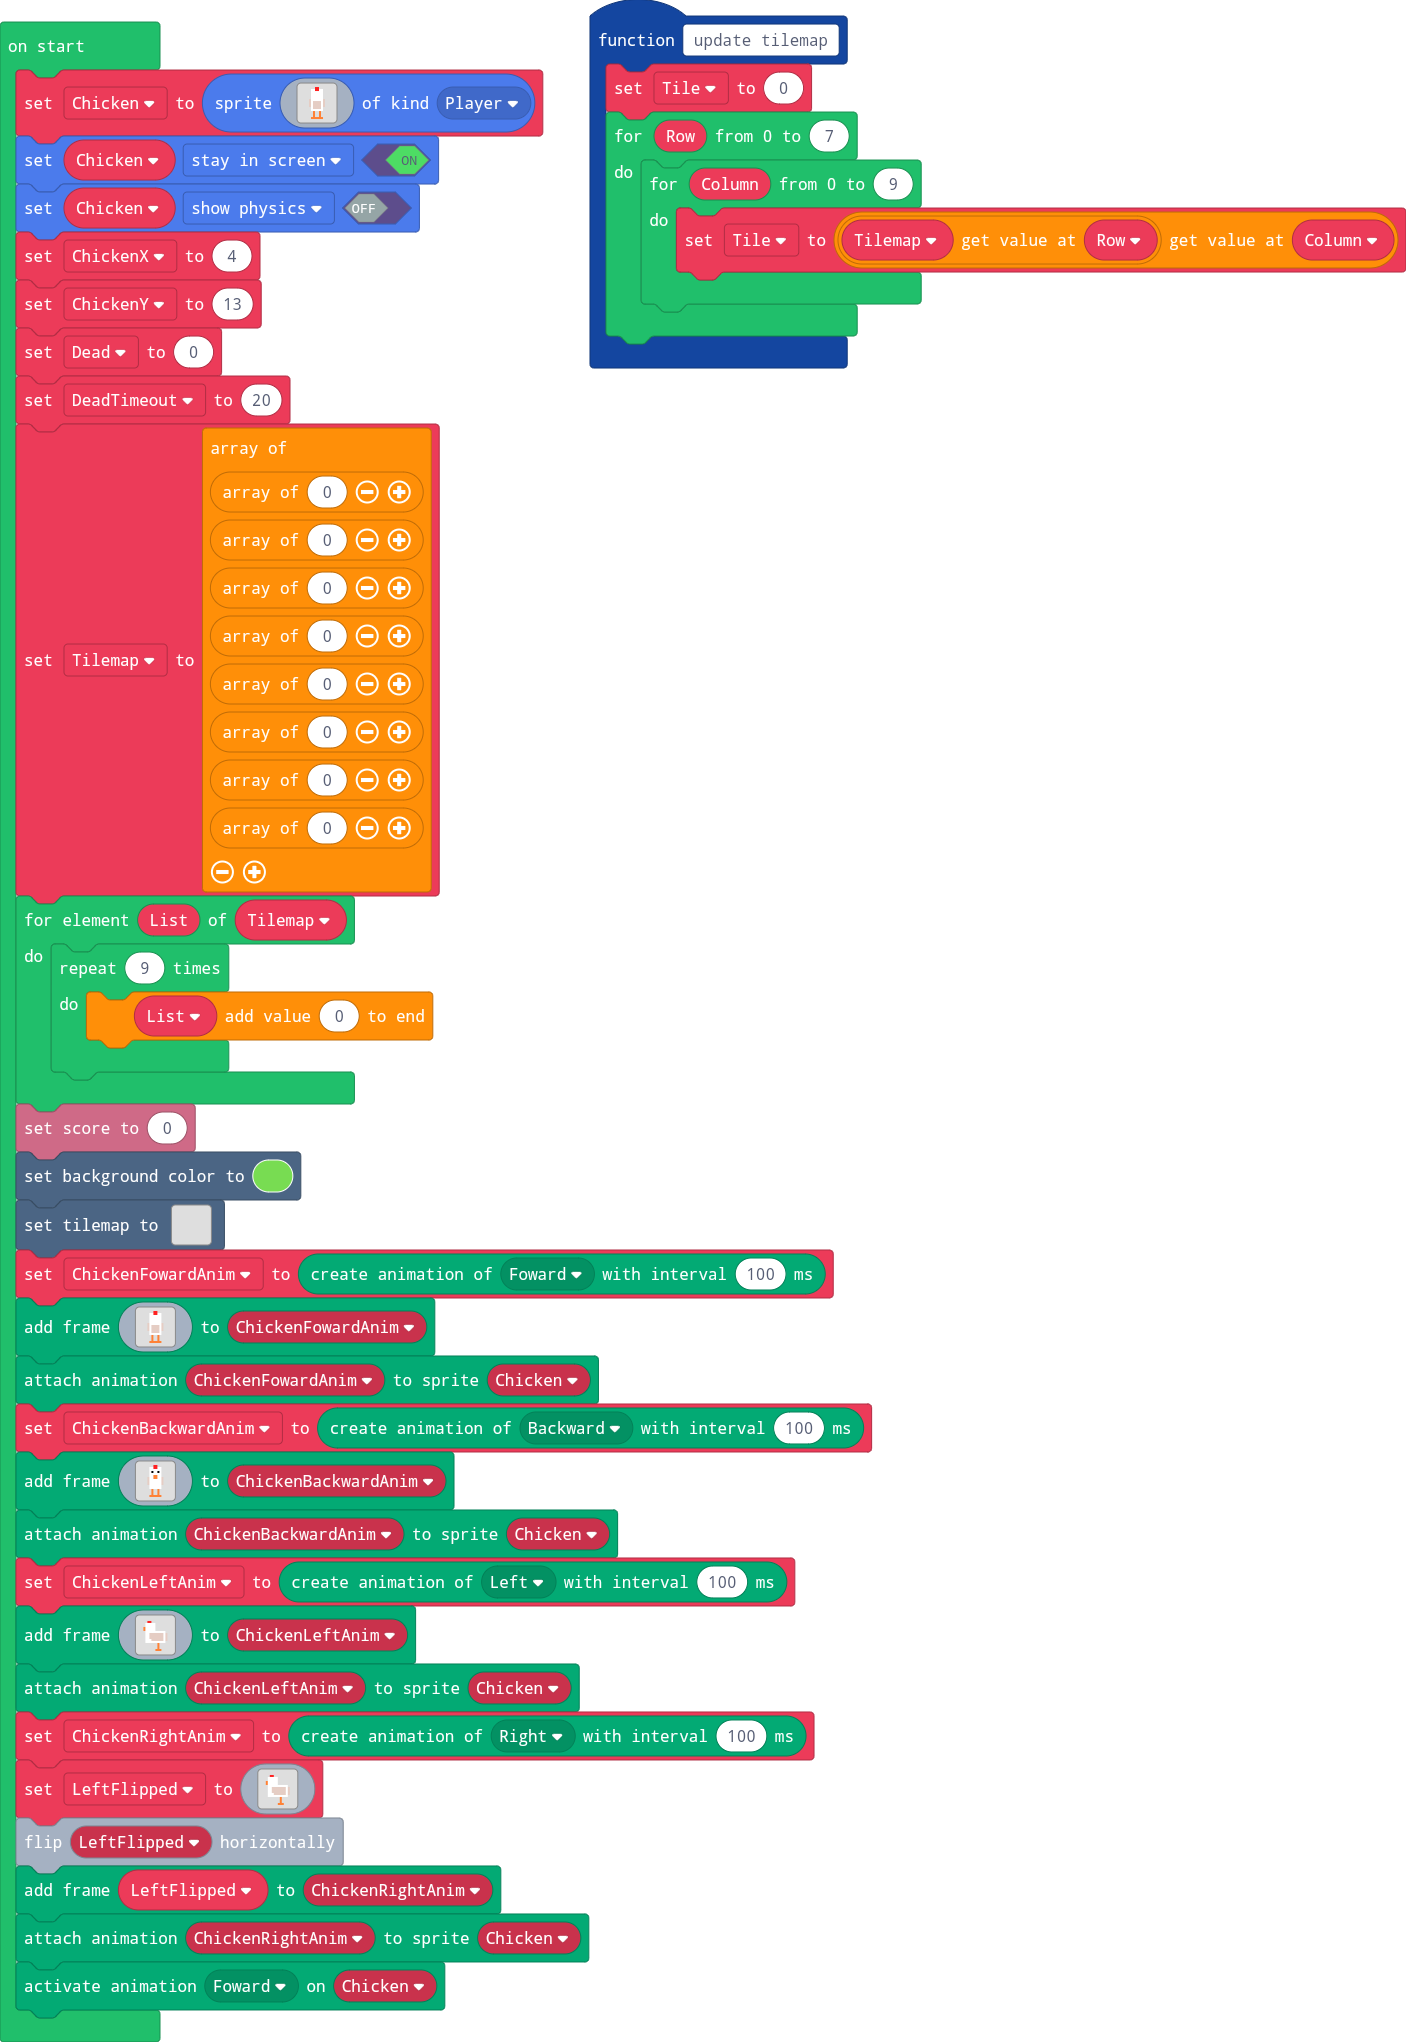
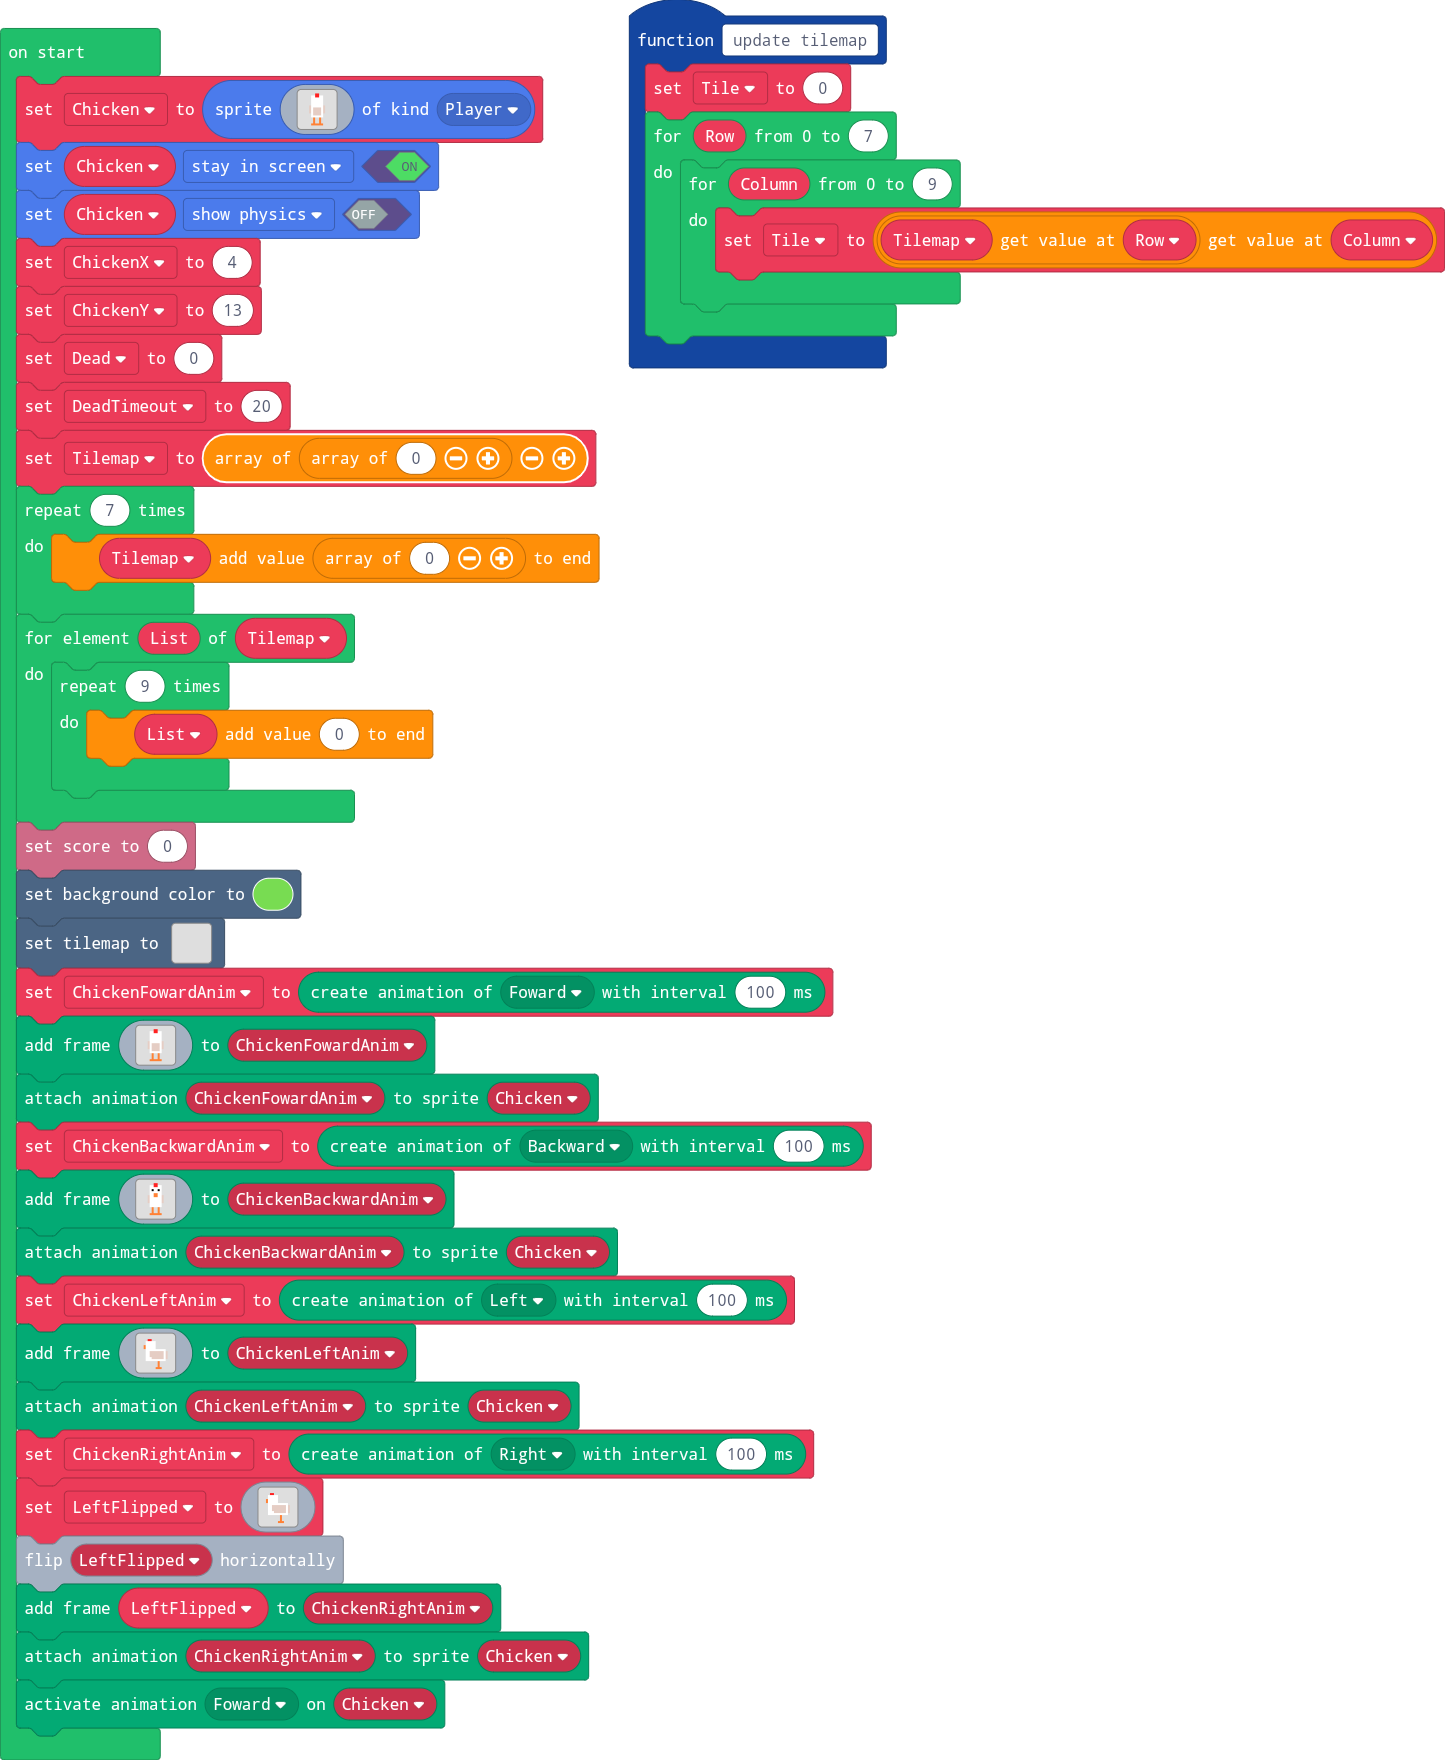
Made another loop to add arrays to 2D array of tilemap

diff --git a/main.ts b/main.ts
@@ -41,7 +41,10 @@ let ChickenX = 4
 let ChickenY = 13
 let Dead = 0
 let DeadTimeout = 20
-Tilemap = [[0], [0], [0], [0], [0], [0], [0], [0]]
+Tilemap = [[0]]
+for (let index = 0; index < 7; index++) {
+    Tilemap.push([0])
+}
 for (let List of Tilemap) {
     for (let index = 0; index < 9; index++) {
         List.push(0)
